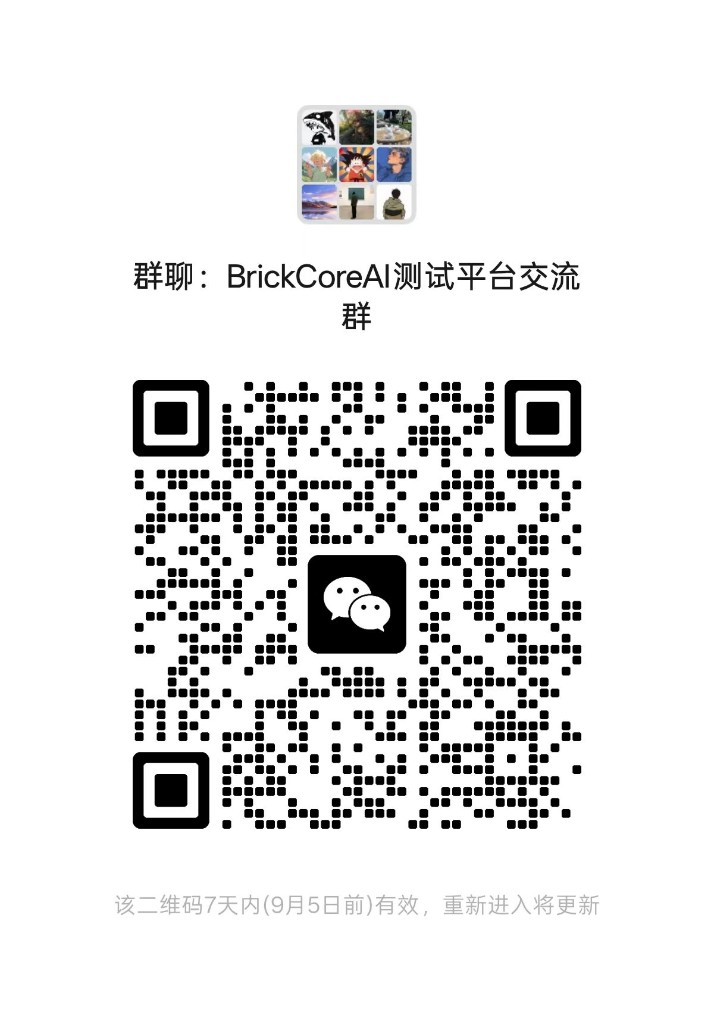
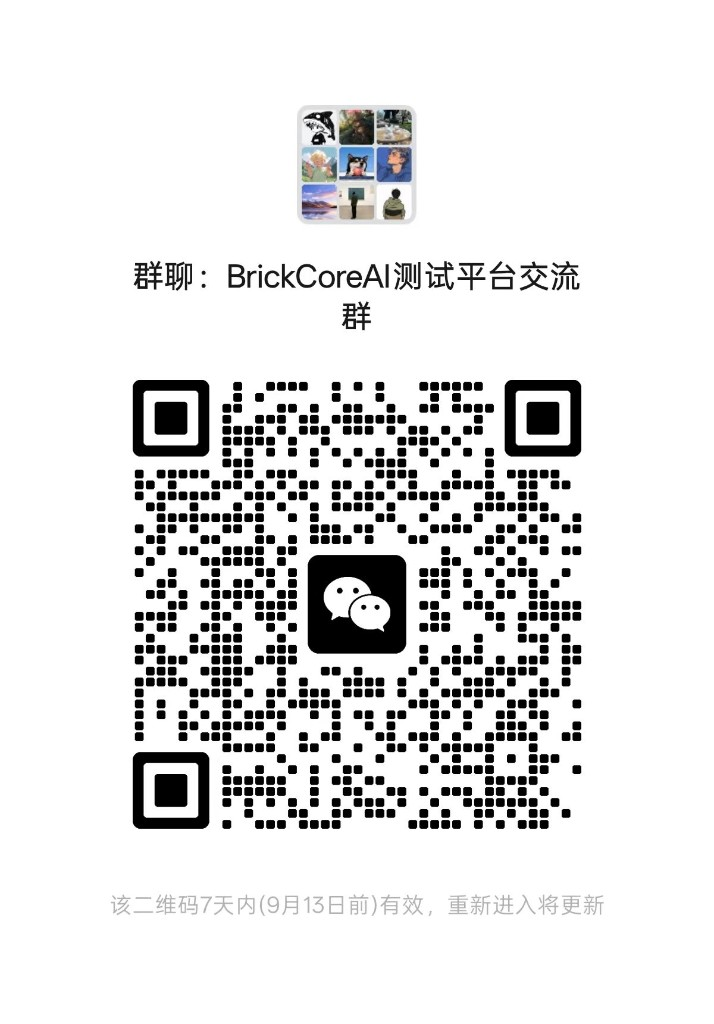
更新最新群截图，平台最新功能开发测试中，敬请期待

diff --git a/docs-site/index.md b/docs-site/index.md
@@ -60,7 +60,7 @@
 **加群交流**
 
 扫码加入 **BrickCoreAI 测试平台交流群**，交流使用问题、部署与版本动态。  
-二维码约 7 天有效（当前至 8 月 29 日前），过期请以页面最新码为准。
+二维码约 7 天有效（当前至 9 月 13 日前），过期请以页面最新码为准。
 
 <img src="../assets/readme/image-wechat-group-brickcore.png" width="200" alt="BrickCoreAI 测试平台交流群" /><br />
 <sub>微信加群</sub>
